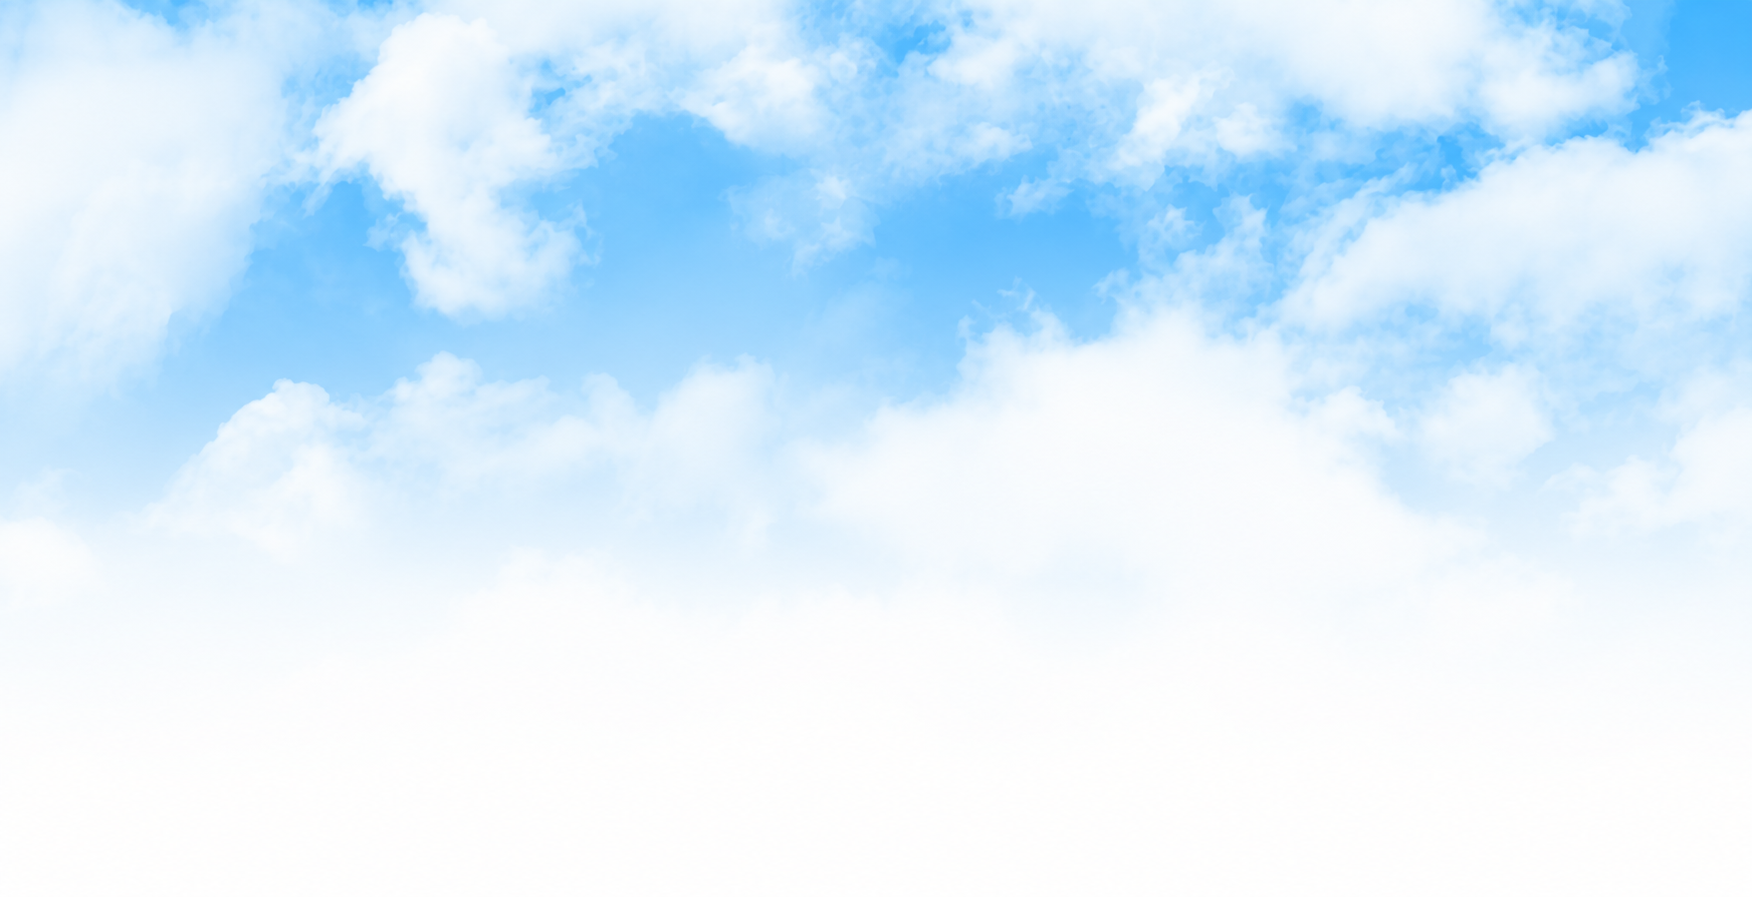
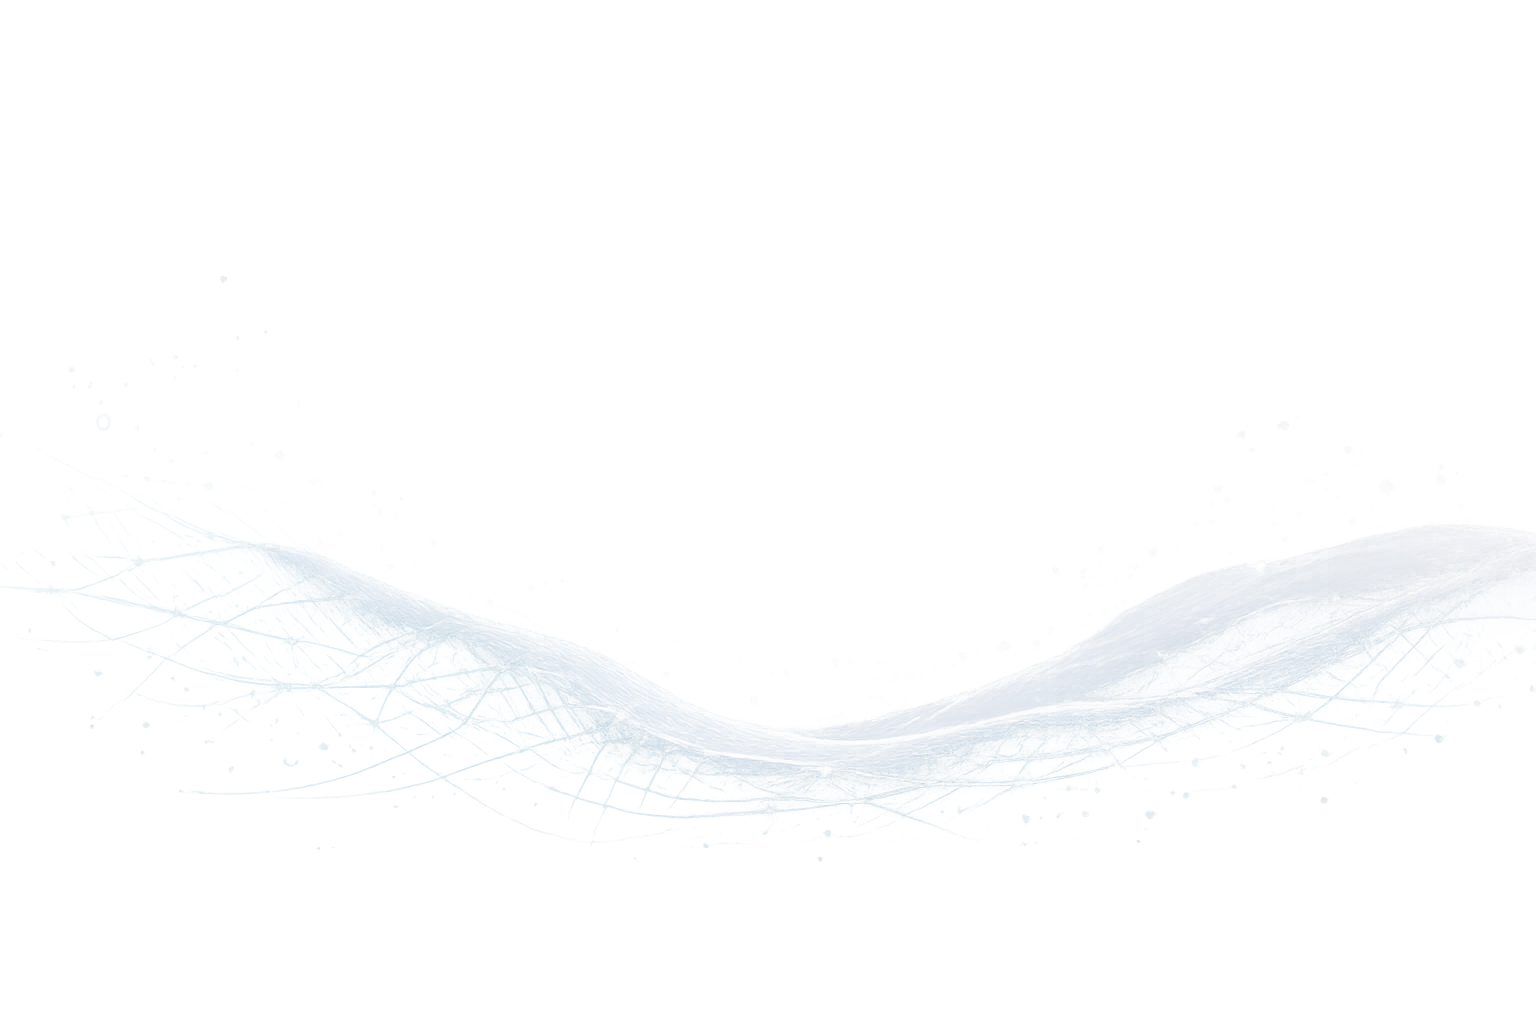
feat: implement global styles, ecosystem component, and hero background assets

diff --git a/app/globals.css b/app/globals.css
@@ -408,7 +408,7 @@ body.mobile-menu-open .market-ticker-container {
   left: 0;
   width: 100%;
   height: 100%;
-  /* background: url('/hero-background.png') center top / cover no-repeat; */
+  background: url('/hero-background.png') center top / cover no-repeat;
   opacity: 0.8;
   z-index: -1;
 }
@@ -5047,7 +5047,8 @@ body.mobile-menu-open .market-ticker-container {
 /* Custom Brutalist Blog Header Styling */
 .blog-listing-header {
   max-width: 1200px;
-  margin: 110px auto 0; /* Push down to clear the fixed navbar */
+  margin: 110px auto 0;
+  /* Push down to clear the fixed navbar */
   padding: 2.5rem 1.5rem 1rem;
   text-align: center;
 }
@@ -5102,14 +5103,17 @@ body.mobile-menu-open .market-ticker-container {
   overflow-x: auto;
   white-space: nowrap;
   -webkit-overflow-scrolling: touch;
-  scrollbar-width: none; /* Hide Firefox scrollbar */
+  scrollbar-width: none;
+  /* Hide Firefox scrollbar */
   background: rgba(15, 23, 42, 0.03);
-  border-radius: 9999px; /* Pill shaped track */
+  border-radius: 9999px;
+  /* Pill shaped track */
   border: 1px solid rgba(15, 23, 42, 0.05);
 }
 
 .blogs-filter-bar::-webkit-scrollbar {
-  display: none; /* Hide Chrome/Safari scrollbar */
+  display: none;
+  /* Hide Chrome/Safari scrollbar */
 }
 
 .blogs-filter-btn {
@@ -5131,7 +5135,8 @@ body.mobile-menu-open .market-ticker-container {
 .blogs-filter-btn:hover {
   color: #0f172a;
   background: rgba(15, 23, 42, 0.04);
-  transform: none; /* Reset brutalism hover */
+  transform: none;
+  /* Reset brutalism hover */
   box-shadow: none;
 }
 
@@ -5312,7 +5317,8 @@ body.mobile-menu-open .market-ticker-container {
 .premium-article-wrap {
   width: 100%;
   max-width: 880px;
-  margin: 110px auto 0; /* Push down to avoid overlapping the fixed navbar */
+  margin: 110px auto 0;
+  /* Push down to avoid overlapping the fixed navbar */
   padding: 1.5rem 0.5rem 6rem;
 }
 
@@ -5415,7 +5421,8 @@ body.mobile-menu-open .market-ticker-container {
 }
 
 .premium-prose {
-  color: #1e293b !important; /* slate-800, very readable on light bg */
+  color: #1e293b !important;
+  /* slate-800, very readable on light bg */
   font-size: 1rem;
   line-height: 1.7;
   letter-spacing: -0.01em;
@@ -5443,7 +5450,8 @@ body.mobile-menu-open .market-ticker-container {
 .premium-prose h5 *,
 .premium-prose h6,
 .premium-prose h6 * {
-  color: #0f172a !important; /* slate-900 */
+  color: #0f172a !important;
+  /* slate-900 */
   font-weight: 700;
   line-height: 1.3;
   letter-spacing: -0.02em;
@@ -5486,7 +5494,8 @@ body.mobile-menu-open .market-ticker-container {
 /* Force readable links */
 .premium-prose a,
 .premium-prose a * {
-  color: #2563eb !important; /* blue-600 */
+  color: #2563eb !important;
+  /* blue-600 */
   text-decoration: none;
   font-weight: 500;
   border-bottom: 1px solid rgba(37, 99, 235, 0.2);
@@ -5495,7 +5504,8 @@ body.mobile-menu-open .market-ticker-container {
 
 .premium-prose a:hover,
 .premium-prose a:hover * {
-  color: #1d4ed8 !important; /* blue-700 */
+  color: #1d4ed8 !important;
+  /* blue-700 */
   border-bottom-color: #1d4ed8 !important;
 }
 
@@ -5515,7 +5525,8 @@ body.mobile-menu-open .market-ticker-container {
   border-left: 4px solid #2563eb;
   padding-left: 1.25rem;
   margin: 2rem 0;
-  color: #475569 !important; /* slate-600 */
+  color: #475569 !important;
+  /* slate-600 */
   font-style: italic;
   font-size: 1.15rem;
 }
@@ -5540,15 +5551,18 @@ body.mobile-menu-open .market-ticker-container {
 
 .premium-prose figcaption {
   font-size: 0.85rem;
-  color: #64748b !important; /* slate-500 */
+  color: #64748b !important;
+  /* slate-500 */
   margin-top: 0.75rem;
   text-align: center;
 }
 
 /* Base mark tag overrides for clean premium highlights */
 .premium-prose mark {
-  background: rgba(234, 179, 8, 0.12) !important; /* Subtle yellow tint */
-  color: #854d0e !important; /* Premium dark yellow/brown text */
+  background: rgba(234, 179, 8, 0.12) !important;
+  /* Subtle yellow tint */
+  color: #854d0e !important;
+  /* Premium dark yellow/brown text */
   padding: 0.1em 0.25em;
   border-radius: 4px;
   display: inline-block;
@@ -5562,66 +5576,84 @@ body.mobile-menu-open .market-ticker-container {
 /* Overrides for WordPress highlighting styles on light background */
 .premium-prose .has-luminous-vivid-orange-color,
 .premium-prose mark.has-luminous-vivid-orange-color {
-  background: transparent !important; /* Stripped background */
-  color: inherit !important; /* Stripped orange text color */
+  background: transparent !important;
+  /* Stripped background */
+  color: inherit !important;
+  /* Stripped orange text color */
   padding: 0 !important;
   border-radius: 0 !important;
 }
+
 .premium-prose mark.has-luminous-vivid-orange-color * {
   color: inherit !important;
 }
 
 .premium-prose .has-vivid-cyan-blue-color,
 .premium-prose mark.has-vivid-cyan-blue-color {
-  background: rgba(29, 78, 216, 0.08) !important; /* Subtle blue tint */
-  color: #1d4ed8 !important; /* Premium blue highlight */
+  background: rgba(29, 78, 216, 0.08) !important;
+  /* Subtle blue tint */
+  color: #1d4ed8 !important;
+  /* Premium blue highlight */
   padding: 0.1em 0.25em;
   border-radius: 4px;
 }
+
 .premium-prose mark.has-vivid-cyan-blue-color * {
   color: #1d4ed8 !important;
 }
 
 .premium-prose .has-pale-cyan-blue-color,
 .premium-prose mark.has-pale-cyan-blue-color {
-  background: rgba(3, 105, 161, 0.08) !important; /* Subtle sky blue tint */
-  color: #0369a1 !important; /* Premium sky blue highlight */
+  background: rgba(3, 105, 161, 0.08) !important;
+  /* Subtle sky blue tint */
+  color: #0369a1 !important;
+  /* Premium sky blue highlight */
   padding: 0.1em 0.25em;
   border-radius: 4px;
 }
+
 .premium-prose mark.has-pale-cyan-blue-color * {
   color: #0369a1 !important;
 }
 
 .premium-prose .has-vivid-purple-color,
 .premium-prose mark.has-vivid-purple-color {
-  background: rgba(126, 34, 206, 0.08) !important; /* Subtle purple tint */
-  color: #7e22ce !important; /* Premium purple highlight */
+  background: rgba(126, 34, 206, 0.08) !important;
+  /* Subtle purple tint */
+  color: #7e22ce !important;
+  /* Premium purple highlight */
   padding: 0.1em 0.25em;
   border-radius: 4px;
 }
+
 .premium-prose mark.has-vivid-purple-color * {
   color: #7e22ce !important;
 }
 
 .premium-prose .has-vivid-green-cyan-color,
 .premium-prose mark.has-vivid-green-cyan-color {
-  background: rgba(4, 120, 87, 0.08) !important; /* Subtle green tint */
-  color: #047857 !important; /* Premium green highlight */
+  background: rgba(4, 120, 87, 0.08) !important;
+  /* Subtle green tint */
+  color: #047857 !important;
+  /* Premium green highlight */
   padding: 0.1em 0.25em;
   border-radius: 4px;
 }
+
 .premium-prose mark.has-vivid-green-cyan-color * {
   color: #047857 !important;
 }
 
 .premium-prose .has-vivid-red-color,
 .premium-prose mark.has-vivid-red-color {
-  background: rgba(185, 28, 28, 0.08) !important; /* Subtle red tint */
-  color: #b91c1c !important; /* Premium red highlight */
+  background: rgba(185, 28, 28, 0.08) !important;
+  /* Subtle red tint */
+  color: #b91c1c !important;
+  /* Premium red highlight */
   padding: 0.1em 0.25em;
   border-radius: 4px;
 }
+
 .premium-prose mark.has-vivid-red-color * {
   color: #b91c1c !important;
 }
@@ -5635,12 +5667,18 @@ body.mobile-menu-open .market-ticker-container {
 }
 
 /* Force all headings and their children/descendants inside premium-prose to be dark slate and strip highlights */
-.premium-prose h1, .premium-prose h1 *,
-.premium-prose h2, .premium-prose h2 *,
-.premium-prose h3, .premium-prose h3 *,
-.premium-prose h4, .premium-prose h4 *,
-.premium-prose h5, .premium-prose h5 *,
-.premium-prose h6, .premium-prose h6 * {
+.premium-prose h1,
+.premium-prose h1 *,
+.premium-prose h2,
+.premium-prose h2 *,
+.premium-prose h3,
+.premium-prose h3 *,
+.premium-prose h4,
+.premium-prose h4 *,
+.premium-prose h5,
+.premium-prose h5 *,
+.premium-prose h6,
+.premium-prose h6 * {
   color: #0f172a !important;
   background: transparent !important;
   padding: 0 !important;
@@ -5678,7 +5716,8 @@ body.mobile-menu-open .market-ticker-container {
 /* Tablet Responsive Adjustments (769px to 1024px) */
 @media (min-width: 769px) and (max-width: 1024px) {
   .blog-grid {
-    grid-template-columns: repeat(2, 1fr) !important; /* Force clean 2-column layout */
+    grid-template-columns: repeat(2, 1fr) !important;
+    /* Force clean 2-column layout */
     gap: 1.25rem;
   }
 
@@ -5699,7 +5738,8 @@ body.mobile-menu-open .market-ticker-container {
 /* Mobile Responsive Adjustments (up to 768px) */
 @media (max-width: 768px) {
   .blog-grid {
-    grid-template-columns: 1fr !important; /* Force clean single column layout */
+    grid-template-columns: 1fr !important;
+    /* Force clean single column layout */
     gap: 1.25rem;
   }
 
@@ -5708,22 +5748,29 @@ body.mobile-menu-open .market-ticker-container {
   }
 
   .blog-card {
-    max-width: 320px; /* Shrunk card width on phone */
-    margin: 0 auto; /* Centered card */
+    max-width: 320px;
+    /* Shrunk card width on phone */
+    margin: 0 auto;
+    /* Centered card */
   }
 
   .blog-image-wrapper {
-    height: 130px !important; /* Compact card image height */
-    aspect-ratio: auto !important; /* Override desktop aspect ratios */
+    height: 130px !important;
+    /* Compact card image height */
+    aspect-ratio: auto !important;
+    /* Override desktop aspect ratios */
   }
 
   .blog-content {
-    padding: 0.75rem !important; /* Tighter internal padding */
+    padding: 0.75rem !important;
+    /* Tighter internal padding */
   }
 
   .premium-article-wrap {
-    margin-top: 105px; /* Clear fixed navbar + ticker completely */
-    padding: 1.25rem 1.25rem 4rem; /* Restored left and right margin for phone */
+    margin-top: 105px;
+    /* Clear fixed navbar + ticker completely */
+    padding: 1.25rem 1.25rem 4rem;
+    /* Restored left and right margin for phone */
   }
 
   .premium-article-header {
@@ -5885,4 +5932,4 @@ a.blog-card * {
   .blogs-section-subtitle {
     padding: 0 0.5rem;
   }
-}
+}

diff --git a/components/Ecosystem.tsx b/components/Ecosystem.tsx
@@ -24,7 +24,7 @@ export default function Ecosystem() {
             </span>{" "}
             Ecosystem
           </h2>
-          <p>One Vision. Multiple Ventures. Infinite Possibilities.</p>
+          <p>All Your Financial Needs in One Place.</p>
         </div>
 
         {/* Diagram */}
